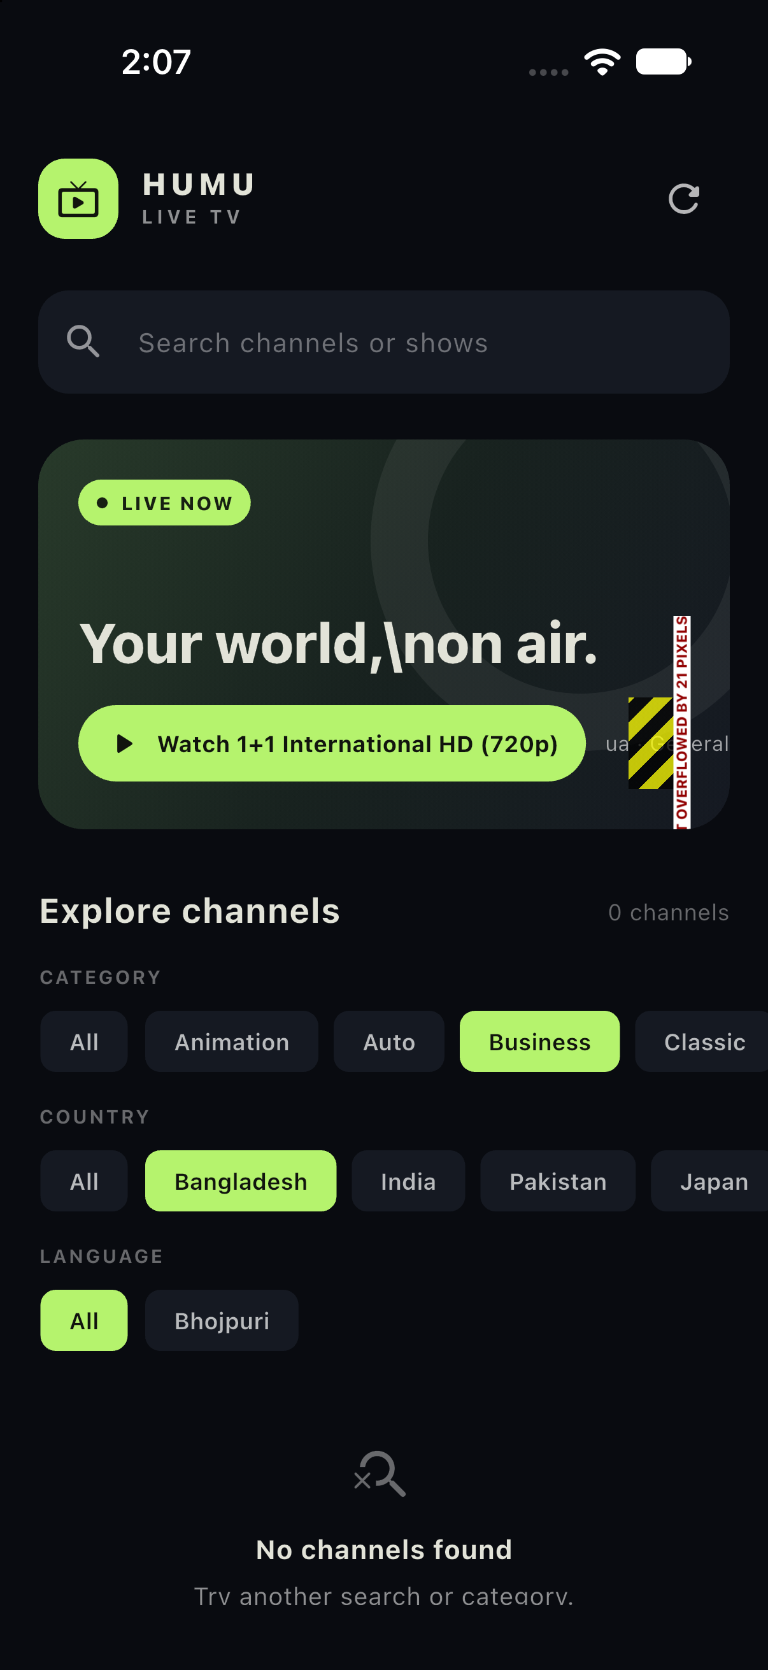
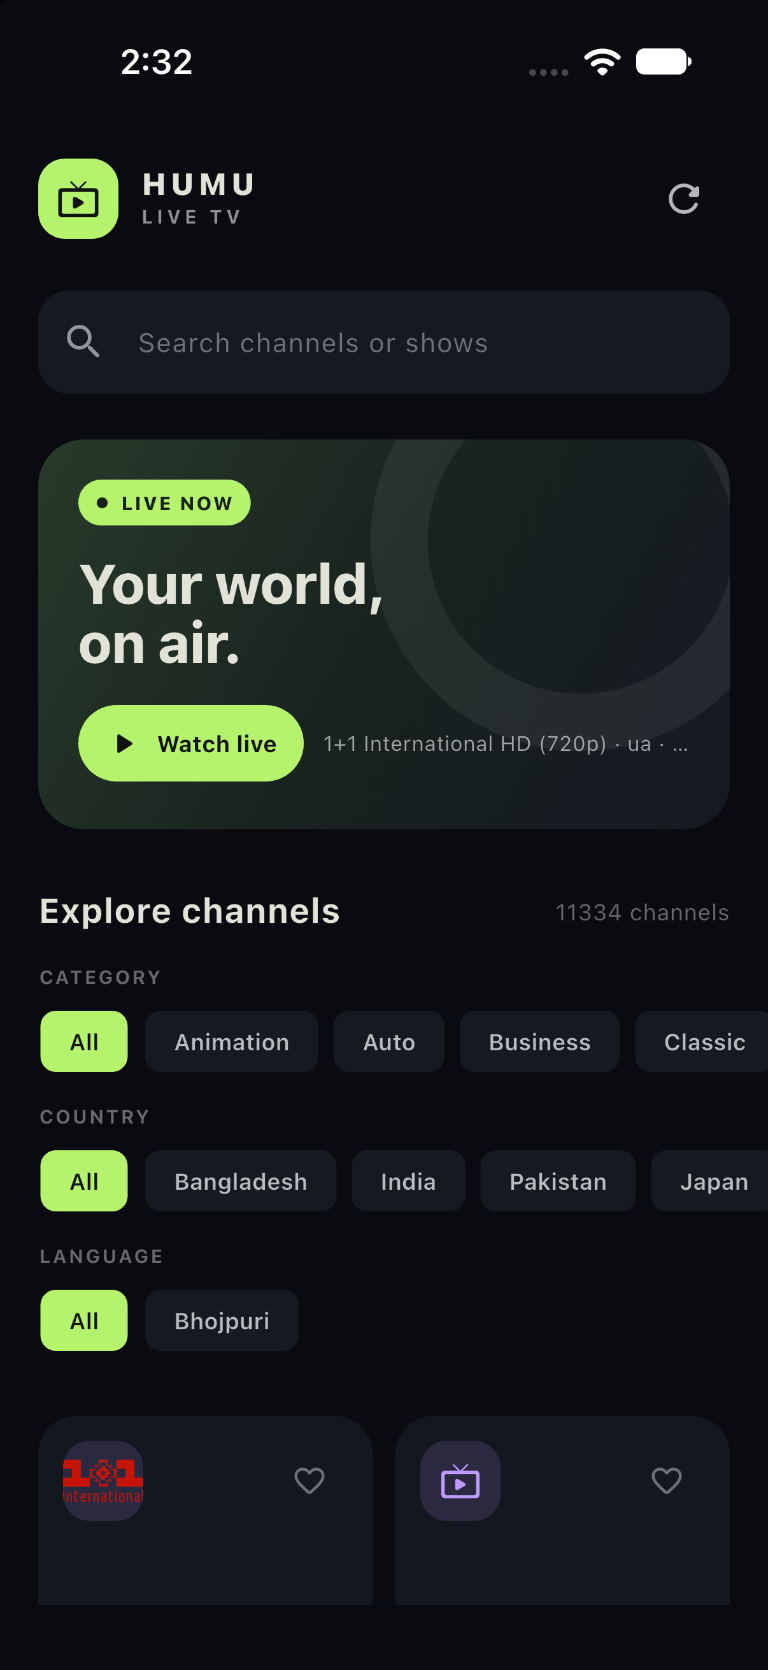
docs: align updated app screenshots

diff --git a/README.md b/README.md
@@ -6,11 +6,9 @@ favorites, channel logos, and HLS playback.
 
 ## Screenshots
 
-![Humu Live TV home screen](docs/screenshots/home-screen.png)
-
-| Channel playback | Unavailable stream |
-| --- | --- |
-| ![My TV Bangladesh playing in the channel player](docs/screenshots/channel-player-bangladesh.png) | ![Channel player showing an unavailable stream](docs/screenshots/unavailable-channel.png) |
+| Home screen | Channel playback | Unavailable stream |
+| --- | --- | --- |
+| <img src="docs/screenshots/home-screen.png" alt="Humu Live TV home screen" width="180"> | <img src="docs/screenshots/channel-player-bangladesh.png" alt="My TV Bangladesh playing in the channel player" width="180"> | <img src="docs/screenshots/unavailable-channel.png" alt="Channel player showing an unavailable stream" width="180"> |
 
 The unavailable-stream screenshot is an earlier capture; the current player
 shows an **OFFLINE** status and a retry action when playback fails.
